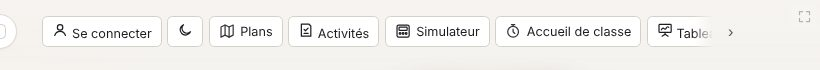
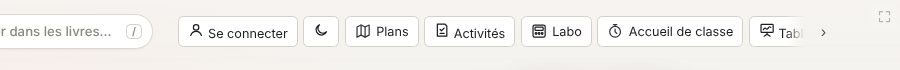
Labo interactif : page d'accueil des simulateurs et défis, bouton Labo dans l'en-tête
Claude-Session: https://claude.ai/code/session_01R8xn1DRCsMyNzWEhA8VhDP

diff --git a/index.html b/index.html
@@ -911,7 +911,7 @@ html.leger{scroll-behavior:auto}
     <a id="quoiNeuf" href="#" role="button">Quoi de neuf<span class="qn-point" id="qnPoint" hidden></span></a>
   </nav>
   <div class="search"><svg class="search-ico" viewBox="0 0 24 24" width="18" height="18" fill="none" stroke="currentColor" stroke-width="2" stroke-linecap="round" aria-hidden="true"><circle cx="11" cy="11" r="6.5"/><path d="M16 16l4.5 4.5"/></svg><input id="search" type="search" placeholder="Chercher dans les livres…" aria-label="Rechercher un titre ou un mot dans les livres"><kbd class="search-kbd" title="Touche / pour chercher">/</kbd></div>
-  <div class="hbtns"><button class="hbtn" id="compteBtn" type="button"></button><button class="hbtn" id="themeBtn" type="button" title="Accueil clair ou foncé" aria-label="Accueil clair ou foncé"><svg class="ico-soleil" viewBox="0 0 24 24" width="18" height="18" fill="none" stroke="currentColor" stroke-width="1.8" stroke-linecap="round" stroke-linejoin="round" aria-hidden="true"><circle cx="12" cy="12" r="4"/><path d="M12 2.5v2M12 19.5v2M2.5 12h2M19.5 12h2M5.3 5.3l1.4 1.4M17.3 17.3l1.4 1.4M5.3 18.7l1.4-1.4M17.3 6.7l1.4-1.4"/></svg><svg class="ico-lune" viewBox="0 0 24 24" width="18" height="18" fill="none" stroke="currentColor" stroke-width="1.8" stroke-linecap="round" stroke-linejoin="round" aria-hidden="true"><path d="M20 14.5A8 8 0 1 1 9.5 4a6.5 6.5 0 0 0 10.5 10.5z"/></svg></button><button class="hfl" id="hflG" type="button" aria-label="Outils précédents" title="Outils précédents">‹</button><div class="hdefil" id="hdefil"><button class="hbtn" id="planBtn" title="Afficher un plan technique au tableau" aria-label="Plans techniques"><svg viewBox="0 0 24 24" width="18" height="18" fill="none" stroke="currentColor" stroke-width="1.8" stroke-linecap="round" stroke-linejoin="round" aria-hidden="true"><path d="M3 6l6-3 6 3 6-3v15l-6 3-6-3-6 3z"/><path d="M9 3v15M15 6v15"/></svg><span class="lbl"> Plans</span></button><button class="hbtn" id="actBtn" title="Activités et cahiers à imprimer" aria-label="Activités"><svg viewBox="0 0 24 24" width="18" height="18" fill="none" stroke="currentColor" stroke-width="1.8" stroke-linecap="round" stroke-linejoin="round" aria-hidden="true"><path d="M8 3h8l3 3v15H5V3z" transform="translate(0 0)"/><path d="M9 11l2 2 4-4M9 17h6"/></svg><span class="lbl"> Activités</span></button><button class="hbtn" id="simBtn" title="Simulateur de panneau d'alarme incendie et défi avec les iPad" aria-label="Simulateur"><svg viewBox="0 0 24 24" width="18" height="18" fill="none" stroke="currentColor" stroke-width="1.8" stroke-linecap="round" stroke-linejoin="round" aria-hidden="true"><rect x="3" y="3" width="18" height="18" rx="2.5"/><rect x="6" y="6" width="12" height="5" rx="1"/><circle cx="7.5" cy="15.5" r="1.3"/><circle cx="12" cy="15.5" r="1.3"/><circle cx="16.5" cy="15.5" r="1.3"/></svg><span class="lbl"> Simulateur</span></button><button class="hbtn" id="accueilBtn" title="Ouvrir le tableau d'accueil de l'atelier" aria-label="Accueil de classe"><svg viewBox="0 0 24 24" width="18" height="18" fill="none" stroke="currentColor" stroke-width="1.8" stroke-linecap="round" stroke-linejoin="round" aria-hidden="true"><circle cx="12" cy="13" r="8"/><path d="M12 9v4l2.5 2.5M9.5 2.5h5M12 2.5V5"/></svg><span class="lbl"> Accueil de classe</span></button><button class="hbtn" id="wbBtn" title="Ouvrir un tableau blanc pour écrire et dessiner" aria-label="Tableau blanc"><svg viewBox="0 0 24 24" width="18" height="18" fill="none" stroke="currentColor" stroke-width="1.8" stroke-linecap="round" stroke-linejoin="round" aria-hidden="true"><rect x="3" y="3.5" width="18" height="12" rx="1.2"/><path d="M6.5 11.5c1.3-2.2 2.6-3 3.8-1.6s2.4 1 3.6-1.2 2.3-2 3.6-.7"/><path d="M12 15.5v2.5M7.5 21l4.5-3 4.5 3"/></svg><span class="lbl"> Tableau blanc</span></button><button class="hbtn" id="grosBtn" hidden title="Texte plus gros" aria-label="Texte plus gros" aria-pressed="false">A+</button><button class="hbtn" id="classeBtn" hidden title="Mode classe : cache la recherche et l'administration" aria-label="Mode classe"><svg viewBox="0 0 24 24" width="18" height="18" fill="none" stroke="currentColor" stroke-width="1.8" stroke-linecap="round" stroke-linejoin="round" aria-hidden="true"><path d="M2 9l10-5 10 5-10 5z"/><path d="M6 11v5c0 1.5 3 3 6 3s6-1.5 6-3v-5M22 9v6"/></svg><span class="lbl"> Mode classe</span></button></div><button class="hfl" id="hflD" type="button" aria-label="Autres outils" title="Autres outils">›</button></div>
+  <div class="hbtns"><button class="hbtn" id="compteBtn" type="button"></button><button class="hbtn" id="themeBtn" type="button" title="Accueil clair ou foncé" aria-label="Accueil clair ou foncé"><svg class="ico-soleil" viewBox="0 0 24 24" width="18" height="18" fill="none" stroke="currentColor" stroke-width="1.8" stroke-linecap="round" stroke-linejoin="round" aria-hidden="true"><circle cx="12" cy="12" r="4"/><path d="M12 2.5v2M12 19.5v2M2.5 12h2M19.5 12h2M5.3 5.3l1.4 1.4M17.3 17.3l1.4 1.4M5.3 18.7l1.4-1.4M17.3 6.7l1.4-1.4"/></svg><svg class="ico-lune" viewBox="0 0 24 24" width="18" height="18" fill="none" stroke="currentColor" stroke-width="1.8" stroke-linecap="round" stroke-linejoin="round" aria-hidden="true"><path d="M20 14.5A8 8 0 1 1 9.5 4a6.5 6.5 0 0 0 10.5 10.5z"/></svg></button><button class="hfl" id="hflG" type="button" aria-label="Outils précédents" title="Outils précédents">‹</button><div class="hdefil" id="hdefil"><button class="hbtn" id="planBtn" title="Afficher un plan technique au tableau" aria-label="Plans techniques"><svg viewBox="0 0 24 24" width="18" height="18" fill="none" stroke="currentColor" stroke-width="1.8" stroke-linecap="round" stroke-linejoin="round" aria-hidden="true"><path d="M3 6l6-3 6 3 6-3v15l-6 3-6-3-6 3z"/><path d="M9 3v15M15 6v15"/></svg><span class="lbl"> Plans</span></button><button class="hbtn" id="actBtn" title="Activités et cahiers à imprimer" aria-label="Activités"><svg viewBox="0 0 24 24" width="18" height="18" fill="none" stroke="currentColor" stroke-width="1.8" stroke-linecap="round" stroke-linejoin="round" aria-hidden="true"><path d="M8 3h8l3 3v15H5V3z" transform="translate(0 0)"/><path d="M9 11l2 2 4-4M9 17h6"/></svg><span class="lbl"> Activités</span></button><button class="hbtn" id="simBtn" title="Labo interactif : simulateurs et défis avec les iPad" aria-label="Labo interactif"><svg viewBox="0 0 24 24" width="18" height="18" fill="none" stroke="currentColor" stroke-width="1.8" stroke-linecap="round" stroke-linejoin="round" aria-hidden="true"><rect x="3" y="3" width="18" height="18" rx="2.5"/><rect x="6" y="6" width="12" height="5" rx="1"/><circle cx="7.5" cy="15.5" r="1.3"/><circle cx="12" cy="15.5" r="1.3"/><circle cx="16.5" cy="15.5" r="1.3"/></svg><span class="lbl"> Labo</span></button><button class="hbtn" id="accueilBtn" title="Ouvrir le tableau d'accueil de l'atelier" aria-label="Accueil de classe"><svg viewBox="0 0 24 24" width="18" height="18" fill="none" stroke="currentColor" stroke-width="1.8" stroke-linecap="round" stroke-linejoin="round" aria-hidden="true"><circle cx="12" cy="13" r="8"/><path d="M12 9v4l2.5 2.5M9.5 2.5h5M12 2.5V5"/></svg><span class="lbl"> Accueil de classe</span></button><button class="hbtn" id="wbBtn" title="Ouvrir un tableau blanc pour écrire et dessiner" aria-label="Tableau blanc"><svg viewBox="0 0 24 24" width="18" height="18" fill="none" stroke="currentColor" stroke-width="1.8" stroke-linecap="round" stroke-linejoin="round" aria-hidden="true"><rect x="3" y="3.5" width="18" height="12" rx="1.2"/><path d="M6.5 11.5c1.3-2.2 2.6-3 3.8-1.6s2.4 1 3.6-1.2 2.3-2 3.6-.7"/><path d="M12 15.5v2.5M7.5 21l4.5-3 4.5 3"/></svg><span class="lbl"> Tableau blanc</span></button><button class="hbtn" id="grosBtn" hidden title="Texte plus gros" aria-label="Texte plus gros" aria-pressed="false">A+</button><button class="hbtn" id="classeBtn" hidden title="Mode classe : cache la recherche et l'administration" aria-label="Mode classe"><svg viewBox="0 0 24 24" width="18" height="18" fill="none" stroke="currentColor" stroke-width="1.8" stroke-linecap="round" stroke-linejoin="round" aria-hidden="true"><path d="M2 9l10-5 10 5-10 5z"/><path d="M6 11v5c0 1.5 3 3 6 3s6-1.5 6-3v-5M22 9v6"/></svg><span class="lbl"> Mode classe</span></button></div><button class="hfl" id="hflD" type="button" aria-label="Autres outils" title="Autres outils">›</button></div>
 </header>
 
 <section class="hero" id="hero"></section>
@@ -927,7 +927,7 @@ html.leger{scroll-behavior:auto}
     <div class="plus-poignee" aria-hidden="true"></div>
     <button type="button" data-plus="aide"><svg viewBox="0 0 24 24" width="22" height="22" fill="none" stroke="currentColor" stroke-width="1.8" stroke-linecap="round" stroke-linejoin="round" aria-hidden="true"><circle cx="12" cy="12" r="9"/><path d="M9.5 9.5a2.5 2.5 0 1 1 3.5 2.3c-.6.3-1 .9-1 1.6v.6M12 17.2v.1"/></svg>Aide</button>
     <button type="button" data-plus="plans"><svg viewBox="0 0 24 24" width="22" height="22" fill="none" stroke="currentColor" stroke-width="1.8" stroke-linecap="round" stroke-linejoin="round" aria-hidden="true"><path d="M9 4L3 6.5v13.5l6-2.5 6 2.5 6-2.5V4l-6 2.5zM9 4v13.5M15 6.5V20"/></svg>Plans techniques</button><button type="button" data-plus="activites"><svg viewBox="0 0 24 24" width="22" height="22" fill="none" stroke="currentColor" stroke-width="1.8" stroke-linecap="round" stroke-linejoin="round" aria-hidden="true"><path d="M8 3h8l3 3v15H5V3z"/><path d="M9 11l2 2 4-4M9 17h6"/></svg>Activités</button>
-    <button type="button" data-plus="sim"><svg viewBox="0 0 24 24" width="22" height="22" fill="none" stroke="currentColor" stroke-width="1.8" stroke-linecap="round" stroke-linejoin="round" aria-hidden="true"><rect x="3" y="3" width="22" height="22" rx="2.5"/><rect x="6" y="6" width="12" height="5" rx="1"/><circle cx="7.5" cy="15.5" r="1.3"/><circle cx="12" cy="15.5" r="1.3"/><circle cx="16.5" cy="15.5" r="1.3"/></svg>Simulateur</button>
+    <button type="button" data-plus="sim"><svg viewBox="0 0 24 24" width="22" height="22" fill="none" stroke="currentColor" stroke-width="1.8" stroke-linecap="round" stroke-linejoin="round" aria-hidden="true"><rect x="3" y="3" width="22" height="22" rx="2.5"/><rect x="6" y="6" width="12" height="5" rx="1"/><circle cx="7.5" cy="15.5" r="1.3"/><circle cx="12" cy="15.5" r="1.3"/><circle cx="16.5" cy="15.5" r="1.3"/></svg>Labo interactif</button>
     <button type="button" data-plus="accueil"><svg viewBox="0 0 24 24" width="22" height="22" fill="none" stroke="currentColor" stroke-width="1.8" stroke-linecap="round" stroke-linejoin="round" aria-hidden="true"><rect x="3.5" y="4" width="17" height="12.5" rx="1.5"/><path d="M8 20h8M12 16.5V20"/></svg>Accueil de classe</button>
     <button type="button" data-plus="wb"><svg viewBox="0 0 24 24" width="22" height="22" fill="none" stroke="currentColor" stroke-width="1.8" stroke-linecap="round" stroke-linejoin="round" aria-hidden="true"><rect x="3" y="3.5" width="18" height="12" rx="1.2"/><path d="M6.5 11.5c1.3-2.2 2.6-3 3.8-1.6s2.4 1 3.6-1.2 2.3-2 3.6-.7"/><path d="M12 15.5v2.5M7.5 21l4.5-3 4.5 3"/></svg>Tableau blanc</button>
     <button type="button" data-plus="gros"><svg viewBox="0 0 24 24" width="22" height="22" fill="none" stroke="currentColor" stroke-width="1.8" stroke-linecap="round" stroke-linejoin="round" aria-hidden="true"><path d="M4 19l5-14 5 14M5.8 14h6.4M15 19l3-8 3 8M16 16.5h4"/></svg>Texte plus gros</button>
@@ -937,11 +937,11 @@ html.leger{scroll-behavior:auto}
   </div>
 </div>
 <script>
-/* Simulateur de panneau (protection incendie) : page à part, ouverte dans un nouvel onglet */
+/* Labo interactif (simulateurs et défis avec les iPad) : page à part, ouverte dans un nouvel onglet */
 document.addEventListener("click", e => {
   const b = e.target.closest && e.target.closest("#simBtn");
   if (!b || !(window.ACCES && ACCES.session)) return;
-  window.open("simulateur.html", "_blank", "noopener");
+  window.open("labo.html", "_blank", "noopener");
 });
 /* Rangée d'outils de l'en-tête qui défile : flèches et fondu seulement quand ça déborde */
 (function(){

diff --git a/labo.html b/labo.html
@@ -1,0 +1,82 @@
+<!DOCTYPE html>
+<html lang="fr">
+<head>
+<meta charset="utf-8">
+<meta name="viewport" content="width=device-width,initial-scale=1,viewport-fit=cover">
+<title>Labo interactif</title>
+<style>
+:root{--fond:#141414;--carte:#1F1F1F;--carte2:#2A2A2A;--txt:#F2EFEA;--gris:#A8A29A;--ligne:#333;--rouge:#E50914;--violet:#534AB7}
+html.clair{--fond:#F3F1EC;--carte:#fff;--carte2:#F1EEE8;--txt:#24211E;--gris:#6B665E;--ligne:#E2DDD3}
+*{box-sizing:border-box}
+html,body{margin:0;background:var(--fond);color:var(--txt);font-family:system-ui,-apple-system,"Segoe UI",sans-serif}
+.haut{display:flex;align-items:center;gap:14px;padding:18px 4vw;border-bottom:1px solid var(--ligne)}
+.haut a{color:var(--txt);text-decoration:none;border:1px solid var(--ligne);border-radius:10px;padding:10px 14px;font-weight:600;font-size:15px;min-height:46px;display:inline-flex;align-items:center}
+.haut h1{margin:0;font-size:22px;flex:1}
+.haut h1 span{color:var(--gris);font-weight:500;font-size:15px;margin-left:8px}
+main{padding:28px 4vw 60px;max-width:1300px;margin:0 auto}
+.intro{color:var(--gris);font-size:16px;margin:0 0 22px;max-width:760px;line-height:1.5}
+h2{font-size:13px;letter-spacing:.12em;text-transform:uppercase;color:var(--gris);margin:28px 0 12px}
+.grille{display:grid;grid-template-columns:repeat(auto-fill,minmax(300px,1fr));gap:16px}
+.carte{background:var(--carte);border-radius:16px;overflow:hidden;display:flex;flex-direction:column;border:1px solid var(--ligne);text-decoration:none;color:inherit;transition:transform .2s,box-shadow .2s}
+a.carte:hover{transform:translateY(-3px);box-shadow:0 12px 30px rgba(0,0,0,.35)}
+.vis{height:170px;display:flex;align-items:center;justify-content:center;position:relative}
+.vis svg{width:150px;height:auto}
+.corps{padding:16px 18px 18px;display:flex;flex-direction:column;gap:8px;flex:1}
+.corps b{font-size:18px}
+.corps p{margin:0;color:var(--gris);font-size:14px;line-height:1.45;flex:1}
+.tags{display:flex;gap:6px;flex-wrap:wrap}
+.tags span{font-size:12px;font-weight:700;border-radius:20px;padding:3px 10px;background:var(--carte2);color:var(--gris)}
+.go{margin-top:6px;background:var(--rouge);color:#fff;border-radius:10px;padding:12px;text-align:center;font-weight:700;font-size:15px}
+.bientot{opacity:.6}.bientot .go{background:var(--carte2);color:var(--gris)}
+.etapes{display:grid;grid-template-columns:repeat(auto-fit,minmax(220px,1fr));gap:12px}
+.etapes div{background:var(--carte);border:1px solid var(--ligne);border-radius:14px;padding:14px 16px;font-size:14px;color:var(--gris);line-height:1.45}
+.etapes b{display:block;color:var(--txt);font-size:15px;margin-bottom:4px}
+.etapes i{font-style:normal;display:inline-flex;width:26px;height:26px;border-radius:50%;background:var(--violet);color:#fff;align-items:center;justify-content:center;font-weight:800;margin-bottom:6px}
+@media (max-width:640px){.haut h1 span{display:none}.grille{grid-template-columns:1fr}}
+</style>
+<script>
+/* Même thème que la bibliothèque : choix gardé dans localStorage.accueilClair, sinon l'ordinateur */
+(function(){ let c = null; try { c = localStorage.getItem("accueilClair"); } catch(e) {}
+  const clair = c === "1" || (c === null && matchMedia("(prefers-color-scheme: light)").matches);
+  if (clair) document.documentElement.classList.add("clair"); })();
+</script>
+</head>
+<body>
+<div class="haut"><a href="./">‹ Bibliothèque</a><h1>Labo interactif <span>Simulateurs et défis avec les iPad</span></h1></div>
+<main>
+<p class="intro">Des outils à faire en classe avec les iPad des élèves. L'iPad de l'enseignant sert de télécommande, le tableau affiche l'écran de classe, et chaque équipe scanne un code QR. Aucun compte n'est nécessaire pour les élèves.</p>
+
+<h2>Protection incendie</h2>
+<div class="grille">
+<a class="carte" href="simulateur.html">
+<div class="vis" style="background:linear-gradient(135deg,#7A1712,#B3261E)"><svg viewBox="0 0 160 110" aria-hidden="true"><rect x="8" y="6" width="144" height="98" rx="10" fill="#9A1F18" stroke="#fff" stroke-opacity=".3"/><rect x="20" y="18" width="88" height="40" rx="4" fill="#9DB89A"/><path d="M28 32h50M28 44h36" stroke="#1C2A1B" stroke-width="5" stroke-linecap="round"/><circle cx="126" cy="24" r="6" fill="#36D06A"/><circle cx="126" cy="40" r="6" fill="#FF3B30"/><circle cx="126" cy="56" r="6" fill="#FFC21A"/><rect x="20" y="70" width="28" height="22" rx="4" fill="#185FA5"/><rect x="54" y="70" width="28" height="22" rx="4" fill="#C62828" stroke="#fff" stroke-opacity=".4"/><rect x="88" y="70" width="28" height="22" rx="4" fill="#24211E"/><rect x="122" y="70" width="20" height="22" rx="4" fill="#5F5E5A"/></svg></div>
+<div class="corps"><b>Simulateur de panneau d'alarme</b>
+<p>Chaque équipe a un vrai panneau adressable sur son iPad. Tu déclenches alarmes, supervisions et troubles; les élèves lisent l'afficheur, règlent la cause sur le terrain et réarment au bon moment.</p>
+<div class="tags"><span>EGI 436-312</span><span>Module 5</span><span>Mode libre</span></div>
+<div class="go">Ouvrir le simulateur</div></div></a>
+
+<a class="carte" href="simulateur.html">
+<div class="vis" style="background:linear-gradient(135deg,#2E2775,#534AB7)"><svg viewBox="0 0 160 110" aria-hidden="true"><rect x="40" y="58" width="26" height="40" rx="3" fill="#8A8F98"/><rect x="67" y="38" width="26" height="60" rx="3" fill="#D89E00"/><rect x="94" y="70" width="26" height="28" rx="3" fill="#A0582B"/><text x="80" y="30" text-anchor="middle" font-size="22" font-weight="900" fill="#fff" font-family="system-ui">1</text><path d="M18 20l6 4-6 4zM136 18h10v10h-10z" fill="#fff" opacity=".5"/><circle cx="141" cy="52" r="5" fill="#fff" opacity=".5"/></svg></div>
+<div class="corps"><b>Défi panneau</b>
+<p>8 missions de plus en plus difficiles, comme un Kahoot : une question éclair, puis remettre le panneau à la normale. Points, pénalités, classement en direct et podium au tableau.</p>
+<div class="tags"><span>EGI 436-312</span><span>Module 5</span><span>En équipes</span></div>
+<div class="go">Lancer un défi</div></div></a>
+
+<div class="carte bientot">
+<div class="vis" style="background:var(--carte2)"><svg viewBox="0 0 160 110" aria-hidden="true"><rect x="22" y="16" width="54" height="36" rx="6" fill="#E21B3C"/><rect x="84" y="16" width="54" height="36" rx="6" fill="#1368CE"/><rect x="22" y="58" width="54" height="36" rx="6" fill="#D89E00"/><rect x="84" y="58" width="54" height="36" rx="6" fill="#26890C"/></svg></div>
+<div class="corps"><b>Quiz maison</b>
+<p>Tes propres questions, jouées sur les iPad avec le même code QR et le même classement au tableau.</p>
+<div class="tags"><span>Tous les cours</span></div>
+<div class="go">Bientôt</div></div></div>
+</div>
+
+<h2>Comment ça marche</h2>
+<div class="etapes">
+<div><i>1</i><b>Ton iPad : la télécommande</b>Ouvre le simulateur et choisis « Télécommande ». Un code à 6 chiffres et un code QR s'affichent.</div>
+<div><i>2</i><b>Le tableau : l'écran de classe</b>Ouvre la même page sur le tableau, choisis « Écran de classe » et tape le code.</div>
+<div><i>3</i><b>Les iPad des élèves</b>Chaque équipe scanne le code QR et écrit son nom. Son iPad devient un panneau d'alarme.</div>
+<div><i>4</i><b>À toi de jouer</b>Mode libre pour démontrer, ou « Lancer le défi » pour les 8 missions.</div>
+</div>
+</main>
+</body>
+</html>

diff --git a/simulateur.html b/simulateur.html
@@ -174,7 +174,8 @@ th{font-size:12px;color:var(--gris);font-weight:700;border-top:0}
 <button id="rEcr" style="background:#24211E">🖥 Écran de classe<br><small style="font-weight:500">tableau interactif</small></button></div>
 <div id="rCode" class="cache"><div class="sous" style="margin-top:14px">Tape le code affiché sur la télécommande</div>
 <input id="rIn" inputmode="numeric" maxlength="7" placeholder="000 000"><button id="rGo" style="width:100%">Afficher l'écran de classe</button></div>
-<div class="sous" style="margin-top:14px">Les élèves, eux, scannent le code QR : leur iPad devient un panneau.</div></div></div>
+<div class="sous" style="margin-top:14px">Les élèves, eux, scannent le code QR : leur iPad devient un panneau.</div>
+<div style="margin-top:14px"><a href="labo.html" style="color:var(--bleu);font-weight:700;text-decoration:none">‹ Labo interactif</a></div></div></div>
 
 <!-- ======================= ÉCRAN DE CLASSE ======================= -->
 <div id="ecr" class="cache"></div>

diff --git a/CLAUDE.md b/CLAUDE.md
@@ -151,6 +151,8 @@
 - **Barre des plans = barre des livres** (2 nov., « la barre d'outils doit ressembler à celle du lecteur de livre ») : dernier bloc CSS « Barre des plans = barre du lecteur » (après `.pl-menu button`) : haut = bande `.pl-top` comme `.reader-bar` (Retour + titre, plus de bouton « Plus » en haut); bas = `.pl-bar` pleine largeur à plat, boutons 40 px, avec en tête `#plPages` (‹ [page] / N ›, `#plPageLbl` + `#plPageTot`, séparateur `#plSepP`) et en queue `#plMoreBtn` (⋯) dont le menu `.pl-menu` s'ouvre au-dessus de la barre. ≤ 640 px : une seule rangée qui défile de côté. Testé : `t_plan.js`, `t_plan2.js` (ordinateur, iPhone 13); pas testé : plan PDF de plusieurs pages (pdf.js bloqué dans le bac à sable, flèches de page simulées).
 - **Activités** (1er nov.; barre du haut `.act-top` = même bande que `.reader-bar` / `.pl-top`, 2 nov., « mes activités en PDF, sans les mêler aux livres de compétence ») : bouton `#actBtn` (à côté de Plans; caché hors connexion et pour les élèves, entrée « Activités » du menu Plus) → overlay `#actOv` (cartes `.act-carte`, filtres Programme/Type si > 1 valeur, versions claire et cellulaire). Données : tableau `ACTIVITES` `{f, titre, type, prog, comp, pages, desc}`; fichiers `activites/<f>.pdf` + `.jpg`. « Projeter » = ouvre la visionneuse des plans et appelle `__plans.charger` (repli : PDF dans un onglet si pdf.js échoue); « Imprimer » = PDF dans un onglet; « Télécharger » = lien download. Pas chiffré (comme les plans). Pas encore fait : lien depuis la fiche d'un livre, lien dans « Préparer le cours » du tableau de bord. Ajouter une activité : PDF + jpg (`pdftoppm -r 60 -f 1 -l 1 -jpeg`, 420 px) + une ligne, `nouveautes.json`, publier.
 
+- **Labo interactif (7 nov., « la partie avec les simulateurs et les Kahoot locaux »)** : bouton `#simBtn` « Labo » dans l'en-tête (et `data-plus="sim"` du menu Plus; caché hors connexion et pour les élèves) → `labo.html` dans un nouvel onglet (page d'accueil à cartes, thème clair/foncé comme la bibliothèque). Outils de l'en-tête dans `#hdefil` (rangée qui défile de côté, flèches `#hflG`/`#hflD` et fondu seulement si ça déborde, roulette = défilement horizontal; `max-width:min(560px,32vw)`). **`simulateur.html`** (EGI 436-312, module 5) : sans paramètre = choix du rôle (Télécommande / Écran de classe + code); `?panneau=CODE` = panneau élève (scanné par QR); `?ecran=CODE` = écran de classe (TNI); `?tele=1` = télécommande directe. Relais : **Supabase Realtime** (canal broadcast `pda-simu-panneau-<code>`, projet gratuit de Jeremy `kjlotlhqrgekzohshmbn`, clé publishable dans la page; se met en pause après 7 jours sans activité → « Restore project ») avec **ntfy.sh en secours** (limite par adresse IP : pas assez pour 10 iPad). Télécommande = autorité : catalogue `CAT` (15 événements, zone, action de terrain `fix`), actions élèves `TERRAIN` (bonne action = RESTORED; alarme : réarmement seulement si cause réglée **et** pompiers; « Appeler le technicien » pour les défauts du technicien), **Défi panneau** `MISSIONS` (8 : question éclair 20 s `Q_S`, puis mission ≤ 180 s `LIMITE_S`; points question ≤ 500, mission ≤ 1000, −200 par erreur `act.mal`; vue de l'écran envoyée par `vueObj()`), en défi le son et le stroboscope ne se coupent pas et le technicien répare seul après 8 s. Testé avec un faux relais (BroadcastChannel) : télécommande + écran + 2 panneaux; pas testé sur de vrais iPad ni avec Supabase en ligne (bloqué dans le bac à sable). `simulateur-test.html` = ancienne page d'essai du relais.
+
 ## Téléphone (≤ 640 px)
 - CSS dans le bloc « Téléphone (≤ 640 px) » de `index.html` : `.hbtns` cachés, barre d'onglets `#tabbar` en bas
   (Accueil, Ma liste, Quoi de neuf, Plus → feuille `#plusOv` qui clique les boutons existants `#lienAide`, `#planBtn`, `#accueilBtn`, `#grosBtn`).
